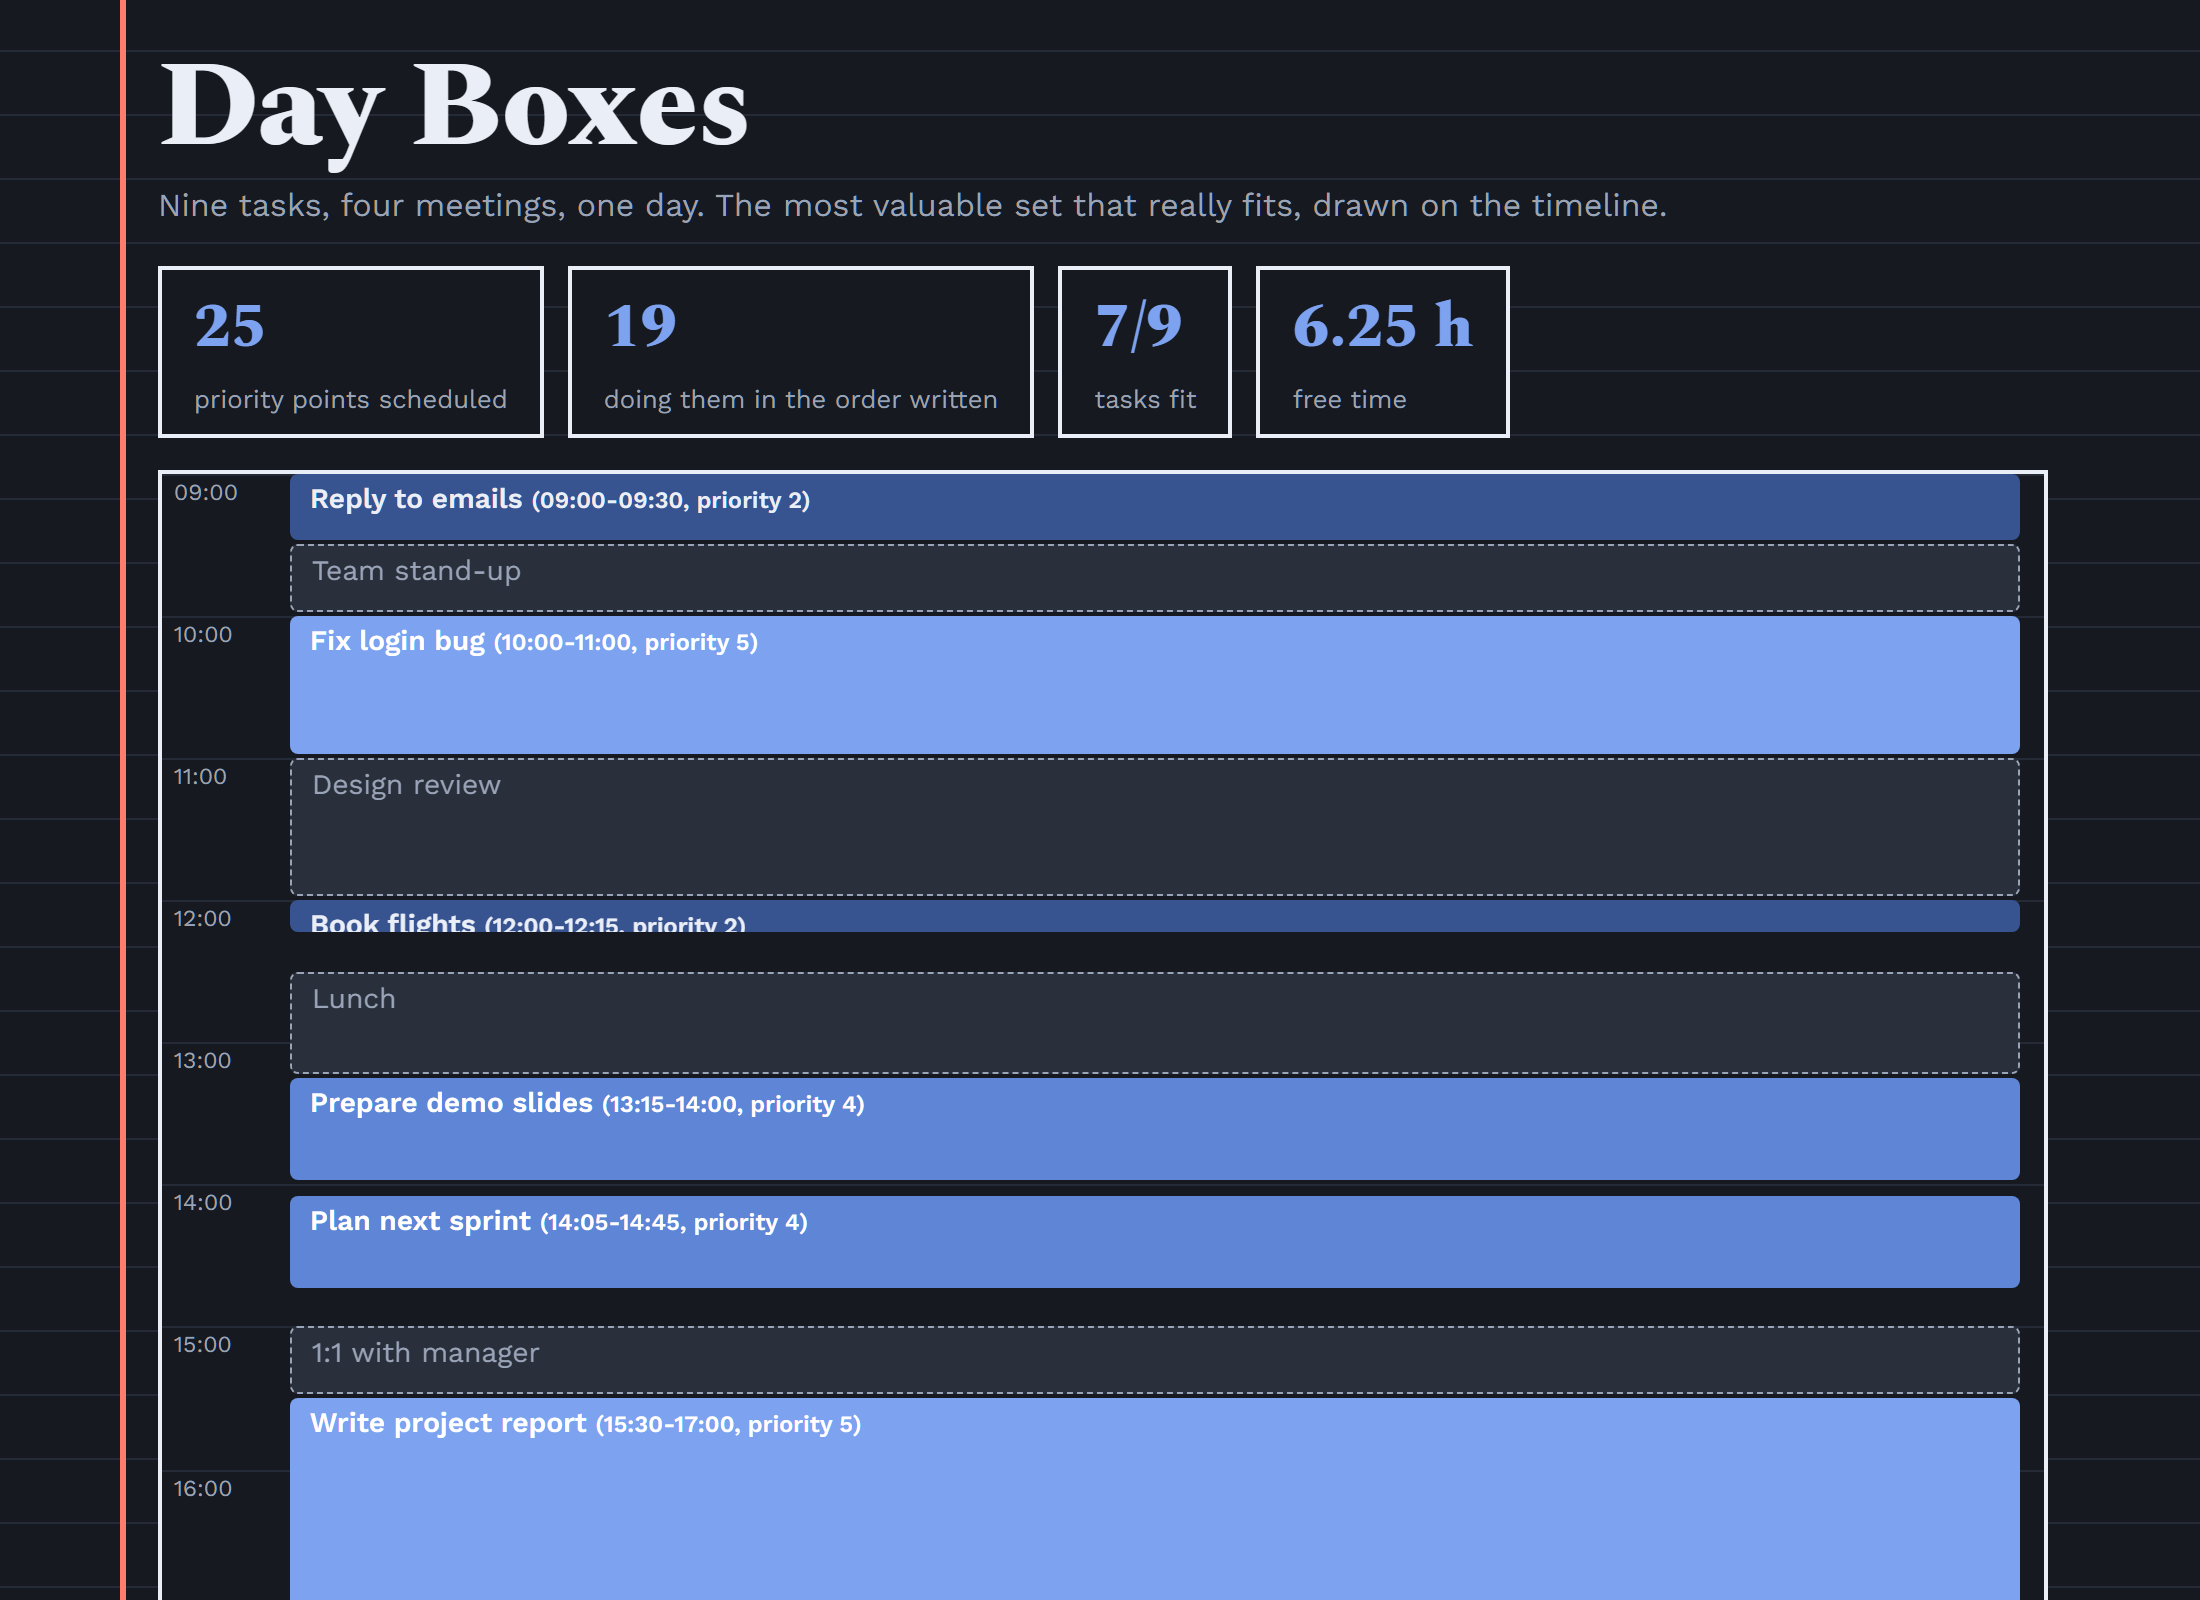
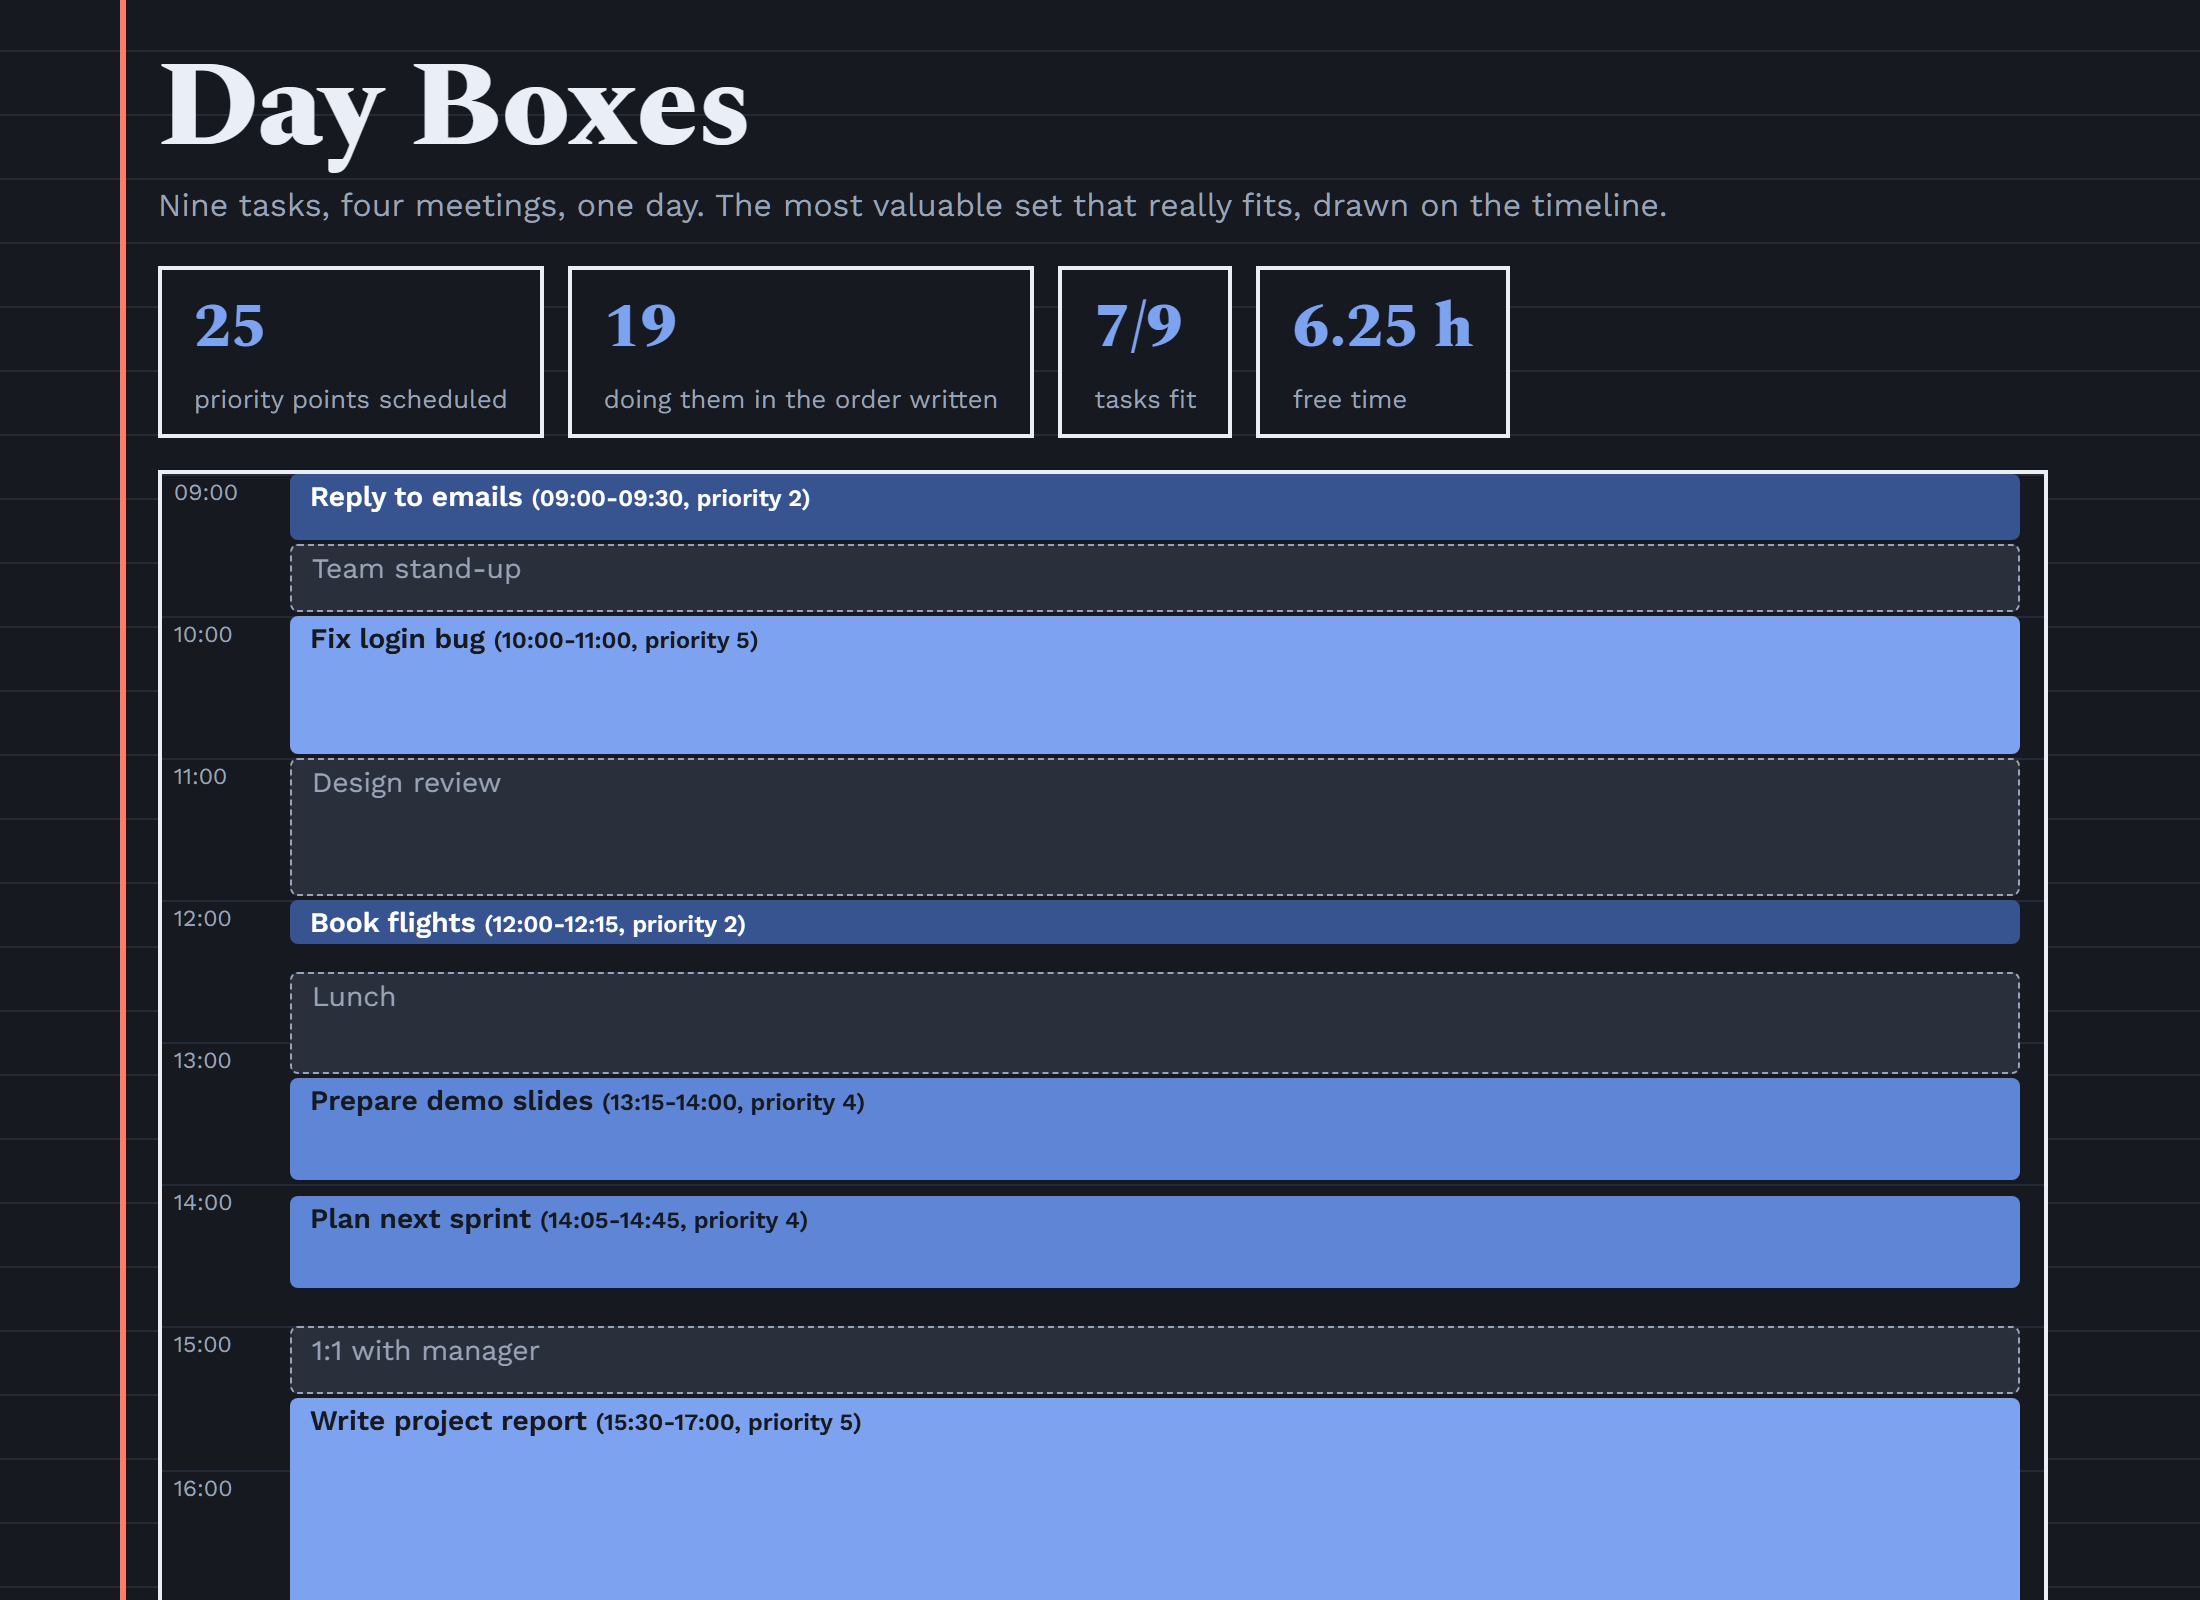
Fix bar contrast and clipping: day-timebox-planner

diff --git a/static/index.html b/static/index.html
@@ -1,16 +1,18 @@
 <!doctype html><html lang="en"><head><meta charset="utf-8"><meta name="viewport" content="width=device-width,initial-scale=1"><title>Day Boxes</title>
 <link href="https://fonts.googleapis.com/css2?family=Spectral:wght@500;800&family=Work+Sans:wght@400;600&display=swap" rel="stylesheet">
 <style>
-:root{--paper:#fbfbf6;--grid:#d8e3f0;--ink:#1d2433;--mute:#5c6678;--blue:#2556b8;--red:#d9493a;--event:#e6e9f0;--p5:#2556b8;--p4:#4a7fd8;--p3:#7fa6e6;--p2:#aac4ee;--p1:#cfdcf3}
+:root{--paper:#fbfbf6;--grid:#d8e3f0;--ink:#1d2433;--mute:#5c6678;--blue:#2556b8;--red:#d9493a;--event:#e6e9f0;--p5:#2556b8;--p4:#3d6fc4;--p3:#7fa6e6;--p2:#aac4ee;--p1:#cfdcf3}
 @media(prefers-color-scheme:dark){:root{--paper:#16191f;--grid:#252b36;--ink:#eaeef7;--mute:#9aa4b8;--blue:#7da2f0;--red:#ff7b6b;--event:#2a303b;--p5:#7da2f0;--p4:#5f86d6;--p3:#486bb0;--p2:#385490;--p1:#2c4272}}
 *{box-sizing:border-box}body{margin:0;color:var(--ink);font:16px/1.5 "Work Sans",sans-serif;background:var(--paper) repeating-linear-gradient(0deg,transparent 0 31px,var(--grid) 31px 32px)}
 main{max-width:980px;margin:auto;padding:24px 16px 56px;border-left:3px solid var(--red);margin-left:max(16px,calc(50vw - 490px))}
 h1{font:800 clamp(2.2rem,8vw,3.8rem)/1 Spectral;margin:0}.sub{color:var(--mute);margin:6px 0 18px}
 .stats{display:flex;flex-wrap:wrap;gap:12px;margin-bottom:16px}.s{background:var(--paper);border:2px solid var(--ink);padding:6px 16px}.s b{display:block;font:800 1.9rem Spectral;color:var(--blue)}.s span{font-size:.8rem;color:var(--mute)}
 .day{position:relative;height:640px;background:var(--paper);border:2px solid var(--ink)}.hr{position:absolute;left:0;right:0;border-top:1px solid var(--grid);font-size:.72rem;color:var(--mute);padding-left:6px}
-.blk{position:absolute;left:64px;right:12px;border-radius:4px;padding:2px 10px;font-size:.88rem;overflow:hidden;animation:in .3s both}.ev{background:var(--event);color:var(--mute);border:1px dashed var(--mute)}.tk{color:#fff;font-weight:600}
+.blk{position:absolute;left:64px;right:12px;border-radius:4px;padding:2px 10px;font-size:.88rem;line-height:1.3;min-height:22px;overflow:hidden;animation:in .3s both}.ev{background:var(--event);color:var(--mute);border:1px dashed var(--mute)}.tk{color:#fff;font-weight:600}
 .p1,.p2{color:var(--ink)}.drop{margin-top:14px;color:var(--mute)}.drop b{color:var(--red)}
 @keyframes in{from{opacity:0;transform:translateX(-6px)}}@media(prefers-reduced-motion:reduce){*{animation:none!important}}
+.p3{color:var(--ink)}
+@media(prefers-color-scheme:dark){.p1,.p2,.p3{color:#fff}.p4,.p5{color:#16191f}}
 </style></head><body><main>
 <h1>Day Boxes</h1><p class="sub">Nine tasks, four meetings, one day. The most valuable set that really fits, drawn on the timeline.</p>
 <div class="stats" id="st" aria-live="polite"></div><p id="planerr"></p><div class="day" id="d" role="img" aria-label="Day timeline"></div><p class="drop" id="dr"></p></main>
